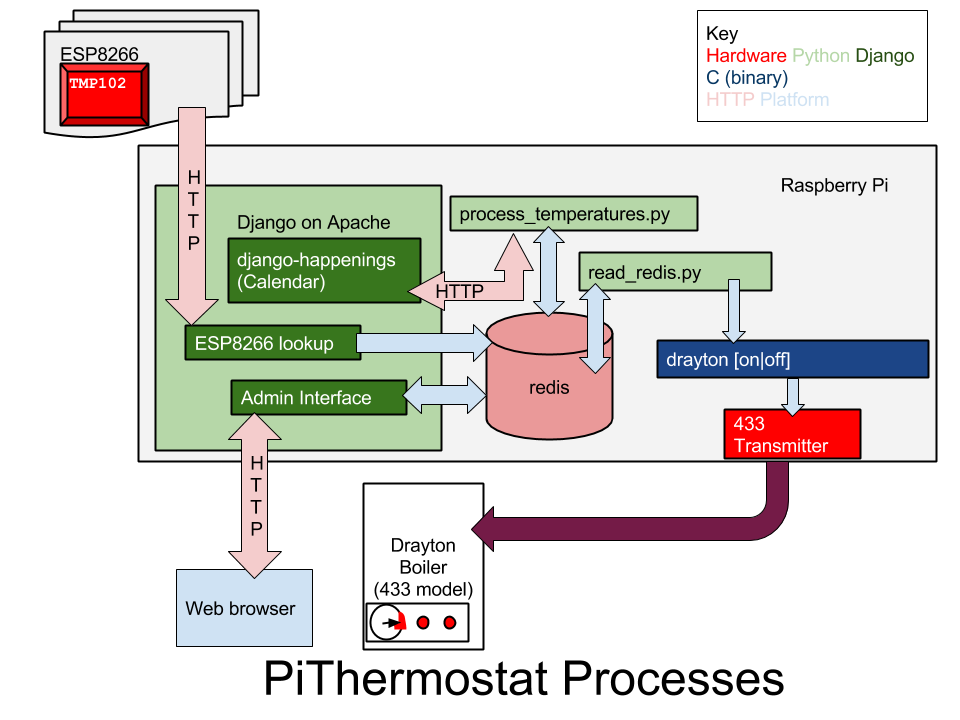
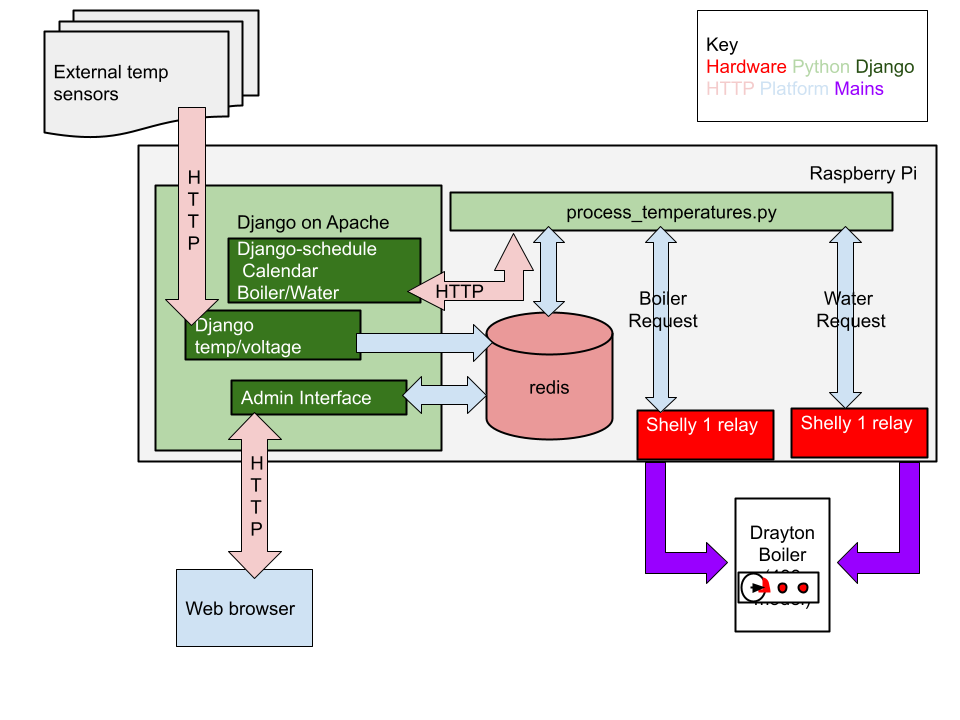
Shortened the Makefile as most can be installed from make install now

diff --git a/README.md b/README.md
@@ -2,9 +2,7 @@ PiThermostat
 ============
 
 
-Central heating system and/or Hot water system using a Raspberry Pi and optionally an LCD touchscreen. This project requires at least one TMP102 to make a thermostat. Integrates with Google calendar or Django Schedule to find required temperature. Works with 433MHz sender board to make a complete boiler control system or Shelly relays. Currently works with British Gas and Drayton gas boilers for 433, but Shelly Relays should work for any boiler.
-
-More details about the 433 sender board used can be found https://github.com/tommybobbins/Raspi_433
+Central heating system and/or Hot water system using a Raspberry Pi and optionally an LCD touchscreen. This project requires at least one TMP102 to make a thermostat. Integrates with Google calendar or Django Schedule to find required temperature. Works with one or two Shelly Relays to make a complete boiler control system.
 
 ![](icons/pi_therm_process.png)
 
@@ -17,10 +15,6 @@ The file structure of this project is as follows:
     bin - main utilities for running thermostat.
     utilities/433PlanB - to be used in the event of redis/thermostat_gui.py dying.
 
-Requires the Adafruit libraries to read from the TMP102:
-
-    pip install Adafruit_GPIO
-
 Install i2c using raspi-config
  
     sudo raspi-config
@@ -31,80 +25,13 @@ Most of the Work below can now be performed using make:
 
     make install
 
-Using django happenings for Calendaring (see Django setup below):
-
-This is now the Default behaviour:
-
-    sudo pip install django-happenings
-
-Install the Python Google API:
-
-     sudo pip install --upgrade google-api-python-client pytz evdev pygame redis smbus configparser
-     sudo pip install apiclient urllib3
-
-     mkdir /etc/google_calendar/
-
-Create a new Google calendar called thermostat. You need to allow access through to this calendar here: https://developers.google.com/google-apps/calendar/get_started . Download the client-secrets.json file and put it into /etc/google_calendar/
-
-     sudo cp client-secrets.json /etc/google_calendar
-
-Run the list_calendar.py
-     
-     cd utilities 
-     python list_calendars.py --no_auth_local_webserver
-
-This should create a sample.dat in the local directory. We need to copy this to /etc/google_calendar for neatness.
-     
-     sudo cp sample.dat /etc/google_calendar
-
 The summary of all events in the calendar should be of the form 
 
      Temp=20.0
 
+If using a Water calendar, then this should be off the form Water=On or Water=Off
+
 Note that Django-Schedule has supplanted Google Calendar as the default. Uncomment line 88 if you wish to use Google Calendar.
-
-Installation of redis
-=====================
-
-     sudo apt-get install redis-server python-redis
-
-Installation of the files
-========================
-
-## Setting up a Temperature sensor
-
-This will setup the sensor for the attic.
-
-    cd PiThermostat
-    sudo cp utilities/redis_sensor.py /usr/local/bin/
-    sudo cp init/redis_sensor.sh /etc/init.d/
-    sudo insserv redis_sensor.sh
-    sudo cp etc/pithermostat.conf /etc/
-
-Edit /etc/pithermostat.conf to suit
-
-Copy the init script to /etc/init.d/temp.sh
-
-    sudo cp utilities/temp.sh /etc/init.d/
-    sudo insserv temp.sh
-
-
-/etc/hosts should contain the name/location of the redis server:
-    
-    echo "192.168.1.223     hotf  433board" >>/etc/hosts
-
-To make redis listen on all available ports, edit /etc/redis/redis.conf:
-
-    #bind 127.0.0.1
-
-
-On the redis server, it is helpful to set a pre-existing weather and optimal temperature (the temperature you want it set to if all else fails):
-
-     pi@raspberrypi ~ $ redis-cli
-     redis 127.0.0.1:6379> set temperature/optimal 20
-     OK
-     redis 127.0.0.1:6379> set temperature/weather 6
-     OK
 
 The scripts to copy to /usr/local/bin are as follows:
 
@@ -115,25 +42,6 @@ The scripts to copy to /usr/local/bin are as follows:
 | processcalendar.py | Deprecated. Was used with django-schedule and is left here for future reference. |
 | thermostat_gui.py | Pygame binary to display data on screen and call all other libraries. |
 | calculate_temps.py | Pull in the data from the temperature sensors and calculates an internal and external mean |
-
-    sudo cp *.py /usr/local/bin/
-    sudo chmod a+rx /usr/local/bin/
-    /etc/init.d/temp.sh start
-
-Edit the redis server configuration to allow incoming connections:
-
-    sudo vi /etc/redis/redis.conf
-
-Ensure that it looks like the following:
-
-    # If you want you can bind a single interface, if the bind option is not
-    # specified all the interfaces will listen for incoming connections.
-    #
-    #bind 127.0.0.1
-
-Restart redis:
-
-sudo /etc/init.d/redis-server restart
 
 
 Using Weather (optional)
@@ -154,67 +62,3 @@ Add a line similar to the following to retrieve the weather for your location
 
     13 0,6,12,18 * * * /usr/local/bin/retrieve_weather.sh
 ========================
-
-
-Setting up the Queue runner on the 433 server
-=============================================
-
-All jobs for the 433 transmitter get queued up on a redis server inside jobqueue. This means they can run sequentially stopping the transmitter from garbling two or more messages together. To process this queue, on the 433 sender we need to run a script:
-
-    utilities/read_redis.py
-
-This needs to run as root to get access to the GPIO pin 18 (in our case). It has some protection to only allow 3 binaries to run.  There is an associated init script:
-
-    sudo cp utilities/read_redis.py /usr/local/bin/ 
-    sudo cp utilities/murunner.sh /etc/init.d/
-    sudo insserv murunner.sh
-
-
-Django front end
-=================
-
-Setting up Django is beyond the scope of this document, but there are instructions on how to do this https://www.djangoproject.com/
-
-    sudo apt-get install -y python-django libapache2-mod-wsgi
-
-Code is inside django. Copy to /usr/local/django and point apache mod_wsgi.conf there. The bottom of the file should look something like:
-
-            WSGIScriptAlias / /usr/local/django/homeauto/wsgi.py
-            WSGIPythonPath /usr/local/django
-            WSGIPassAuthorization On
-    #            <Location />
-    #                AuthType Basic
-    #                AuthName "Authentication Required"
-    #                AuthUserFile "/etc/apache2/htpasswd"
-    #                Require valid-user
-    #            </Location>
-
-
-    </IfModule>
-
-Apache should allow the static directories to be served. Add this to /etc/apache/sites-available/default:
-
-
-        # Non-Django directories
-        Alias /static /usr/local/django/homeauto/static/
-          <Location "/static">
-              SetHandler None
-          </Location>
-
-Install the Tango icons:
-
-    sudo pip install django-icons-tango
-
-Create the sqlite database:
-
-    cd /usr/local/django
-
-    sudo python manage.py syncdb
-
-    chmod a+rw home.db
-
-    sudo /etc/init.d/apache2 restart
-   
-Check that Django Happenings is installed:
- 
-    sudo pip install django-happenings
